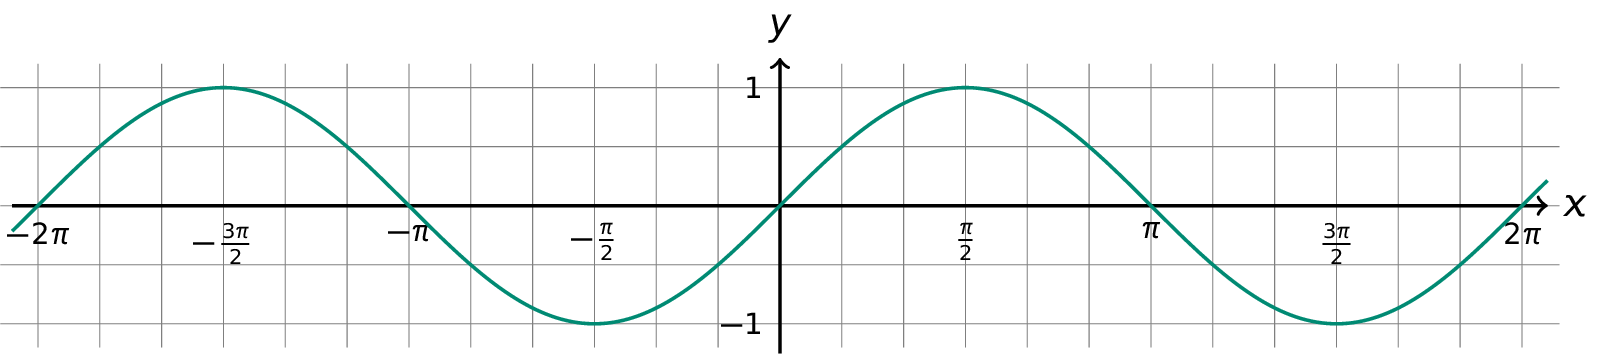
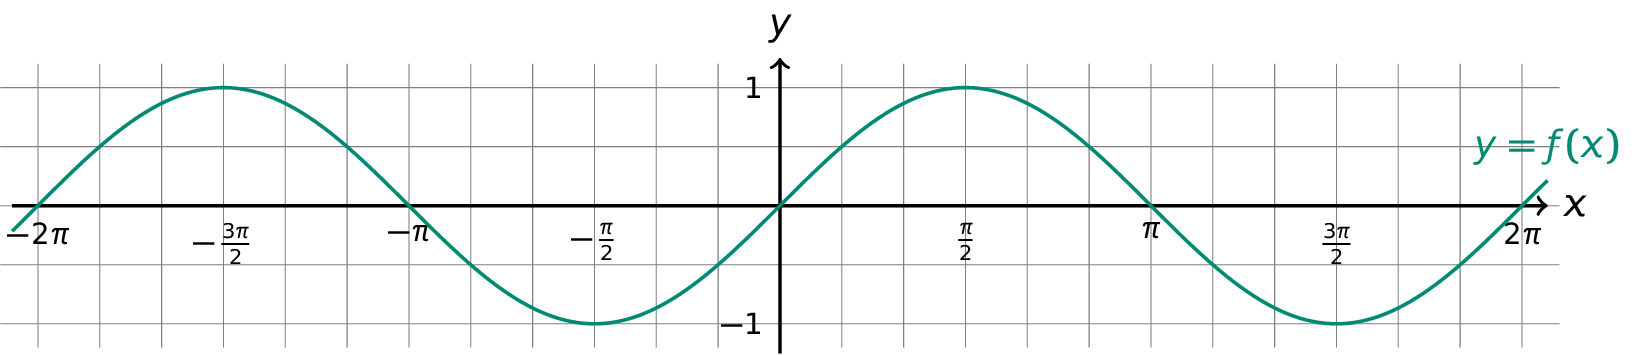
Image fix

diff --git a/Deel 2 Python/01 Herhaling/17 - Sinusfunctie/description/media/image.tex b/Deel 2 Python/01 Herhaling/17 - Sinusfunctie/description/media/image.tex
@@ -37,6 +37,6 @@
 		\draw[main, ->,thick] (-6.5,0) -- (6.5,0) node[right] {$x$};
 		\draw[main, ->,thick] (0,-1.25) -- (0, 1.25) node[above] {$y$};
 		% curve
-		\draw[thick,draw=PineGreen,	domain=-6.5:6.5,samples=300,variable=\x] plot(\x,{sin(deg{\x})});
+		\draw[thick,PineGreen, draw=PineGreen,	domain=-6.5:6.5,samples=300,variable=\x] plot(\x,{sin(deg{\x})}) node [above] {$y=f(x)$};
 	\end{tikzpicture}
 \end{document}

diff --git a/Deel 2 Python/01 Herhaling/17 - Sinusfunctie/description/description.nl.md b/Deel 2 Python/01 Herhaling/17 - Sinusfunctie/description/description.nl.md
@@ -4,9 +4,9 @@ $$
 \mathsf{f(x) = sin(x)}
 $$
 
-![De eenvoudige sinusfunctie.](media/image.png "De eenvoudige sinusfunctie."){:data-caption="De eenvoudige sinusfunctie." .light-only width="80%"}
+![De eenvoudige sinusfunctie.](media/image.png "De eenvoudige sinusfunctie."){:data-caption="De eenvoudige sinusfunctie." .light-only width="95%"}
 
-![De eenvoudige sinusfunctie.](media/image_dark.png "De eenvoudige sinusfunctie."){:data-caption="De eenvoudige sinusfunctie." .dark-only width="80%"}
+![De eenvoudige sinusfunctie.](media/image_dark.png "De eenvoudige sinusfunctie."){:data-caption="De eenvoudige sinusfunctie." .dark-only width="95%"}
 
 
 ## Opgave
